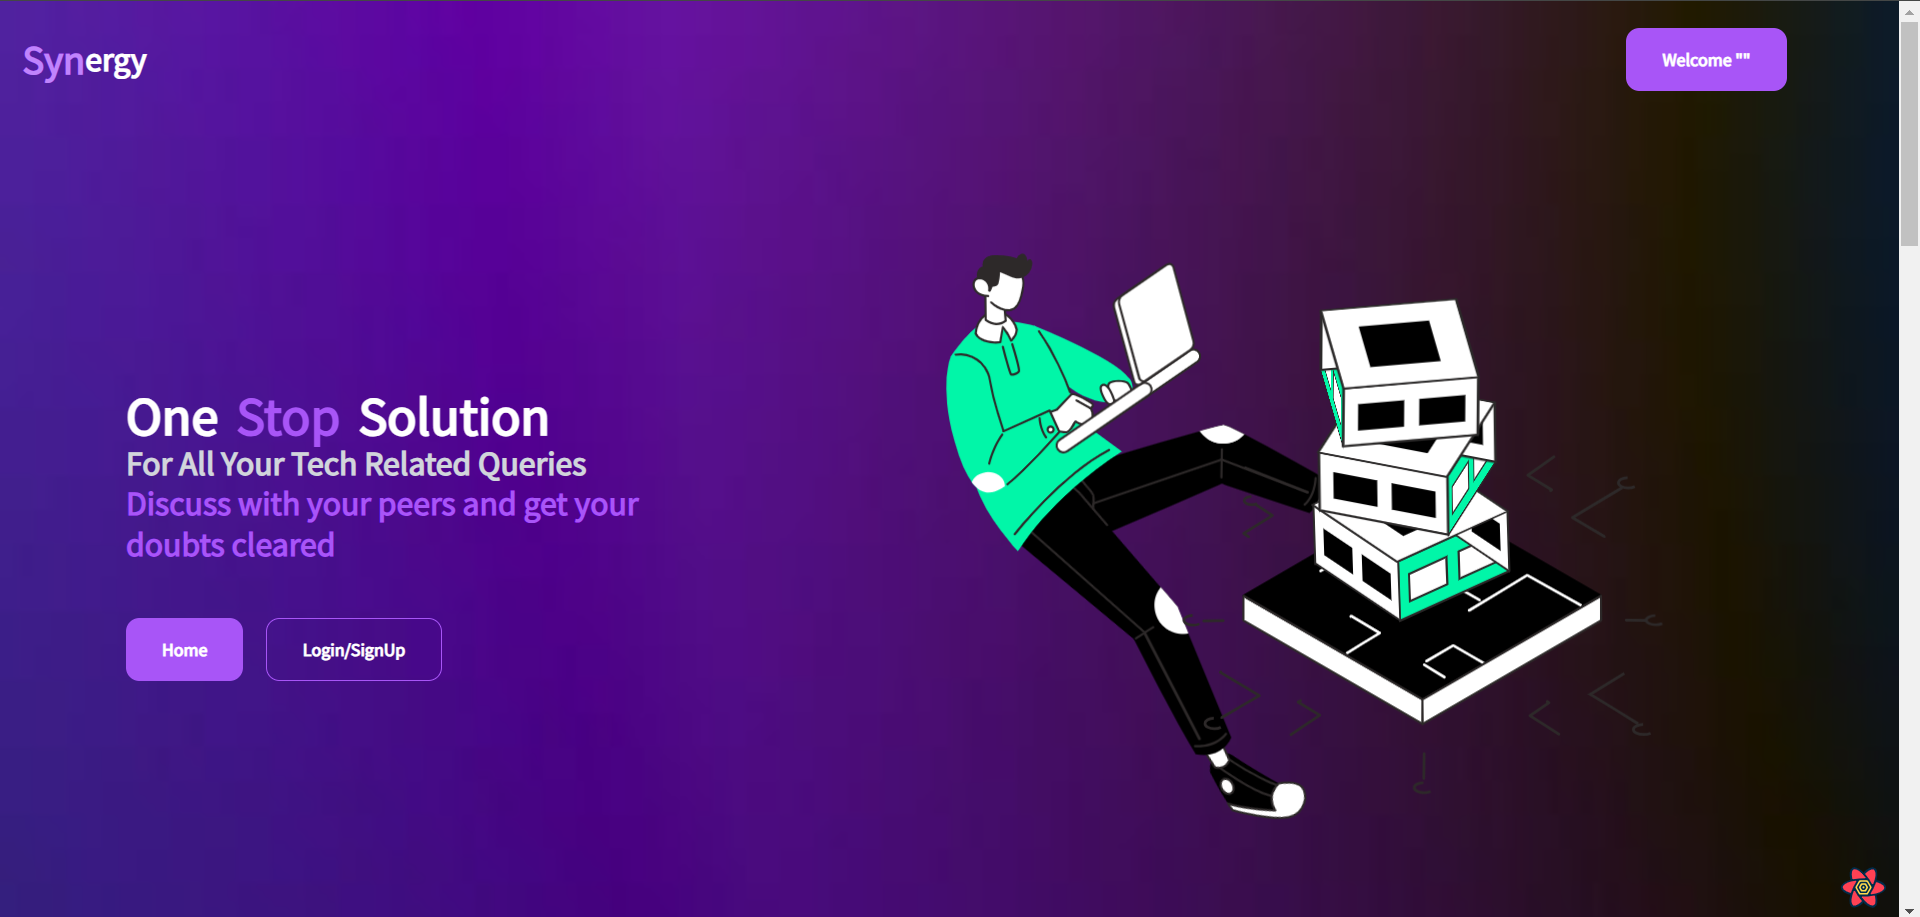
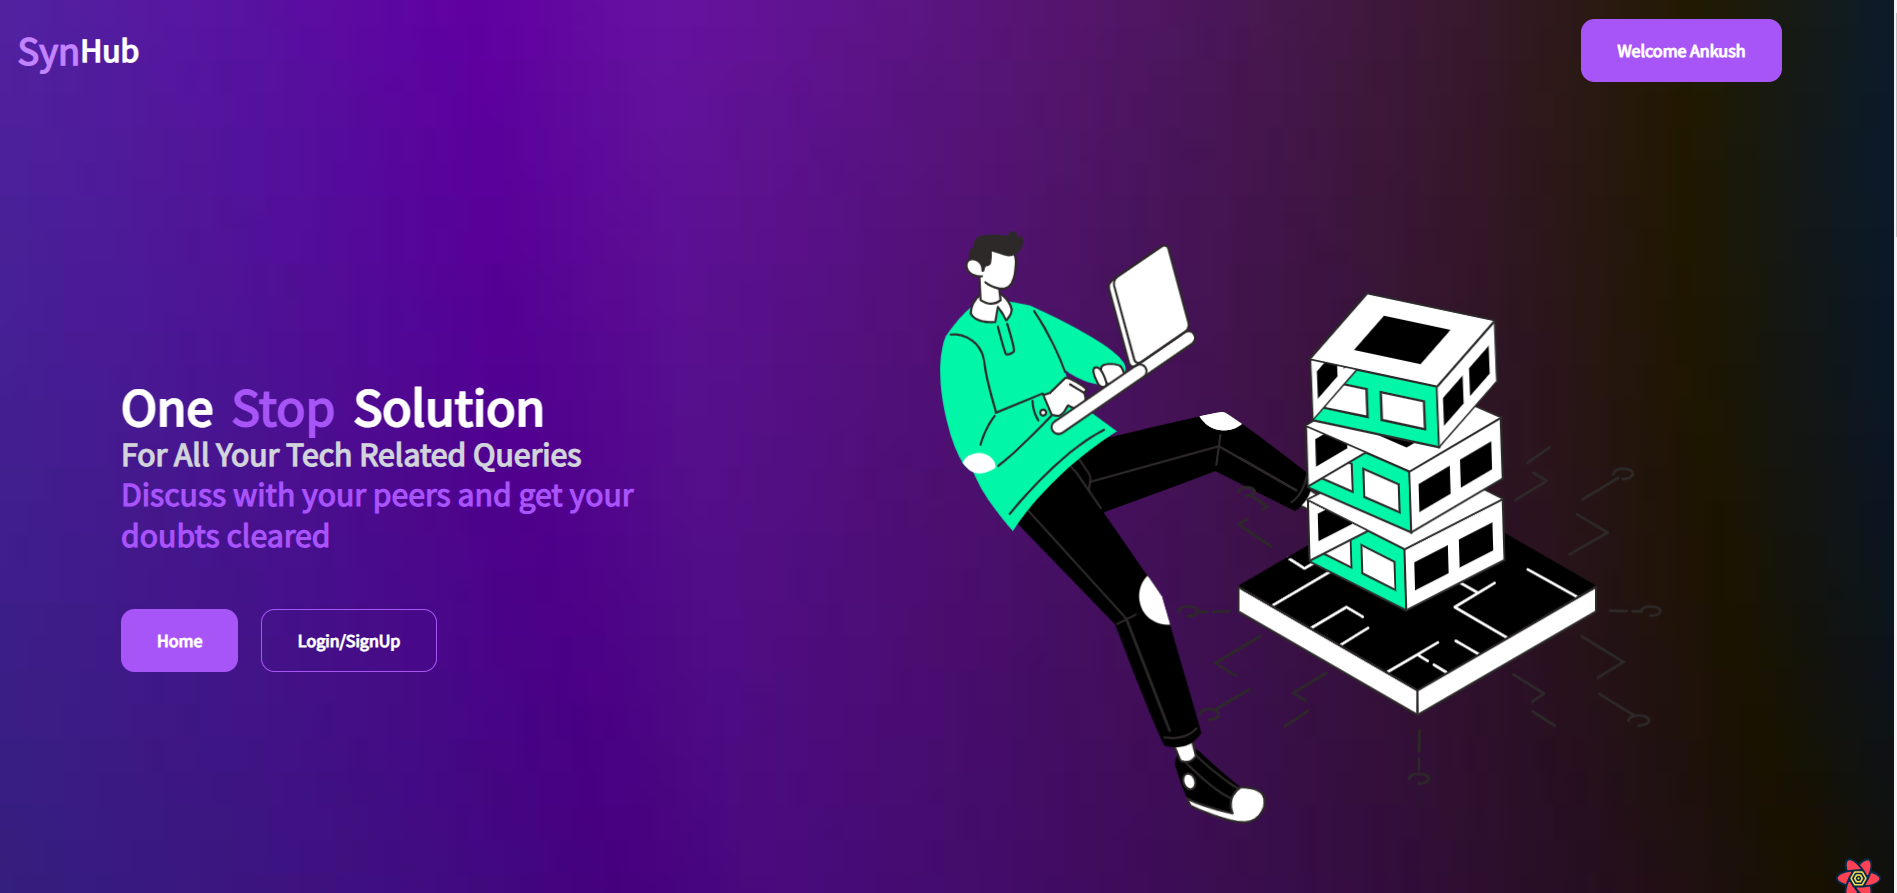
fixed name

diff --git a/frontend/src/pages/index.tsx b/frontend/src/pages/index.tsx
@@ -21,10 +21,10 @@ const Home: NextPage = () => {
       <div className="min-h-screen bg-custom-image bg-cover bg-no-repeat">
         <SEO title="SynHub" />
 
-        <div className="relative z-10 flex justify-between p-5">
+        <div className="relative z-10 flex justify-between p-5 ">
           <div className="flex items-center">
             <div className="text-4xl font-bold text-purple-400">Syn</div>
-            <div className="text-3xl font-bold text-white">ergy</div>
+            <div className="text-3xl font-bold text-white">Hub</div>
           </div>
           <div className="flex">
             {!userQuery?.data?.name ? (
@@ -33,7 +33,7 @@ const Home: NextPage = () => {
               </button>
             ) : (
               <div className="my-1 mx-20 h-14 flex items-center  cursor-pointer rounded-xl  bg-purple-500 px-8 font-semibold text-white hover:bg-purple-900 hover:shadow-xl">
-                Welcome ""
+                Welcome Ankush
               </div>
             )}
           </div>

diff --git a/README.md b/README.md
@@ -1,4 +1,4 @@
-# SYNERGY - Buiding the biggest learning Commmunity
+# SYNHUB - Buiding the biggest learning Commmunity
 
 <!-- <p>Issues with current project Synergy : -&nbsp;</p>
 
